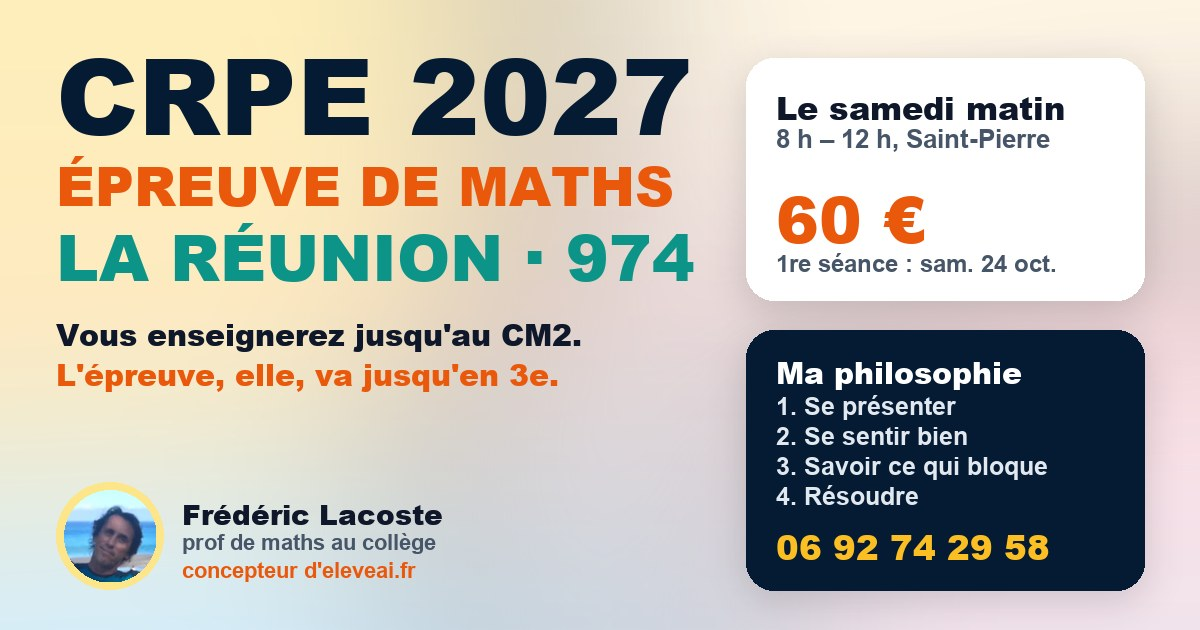
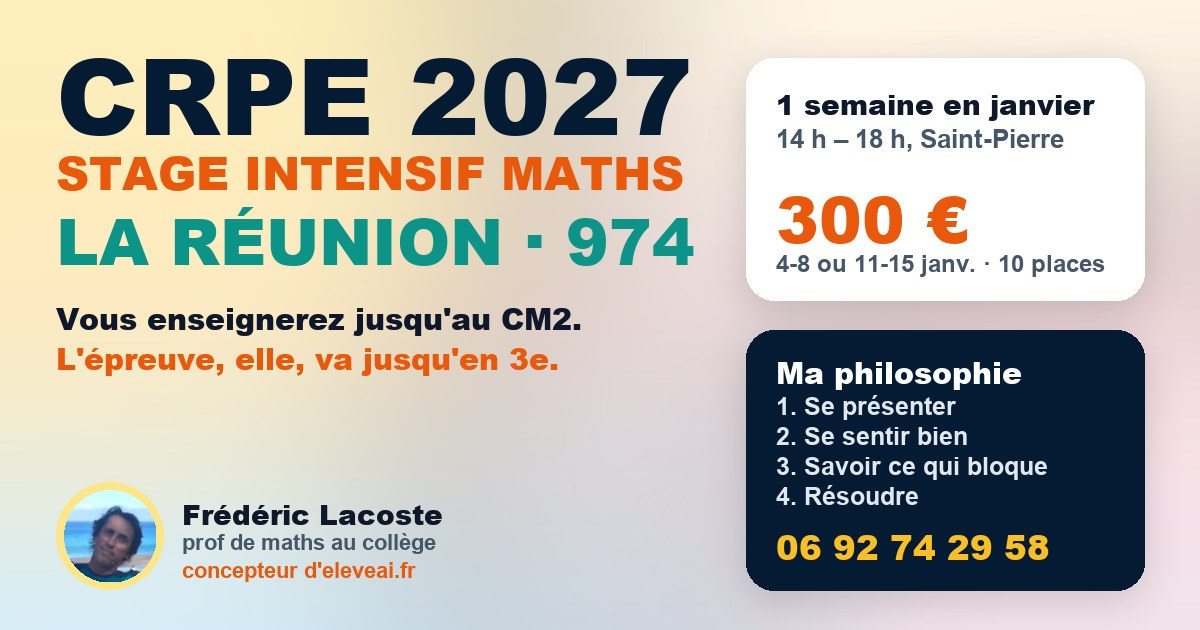
Pub CRPE refaite pour le stage de janvier : carrousel, post, story et image de partage (« Stage intensif maths », 1 semaine en janvier 14 h-18 h, 300 €, 4-8 ou 11-15 janvier, 10 places, « Bonne résolution 2027 », 06 92 74 29 58) — Frédéric, 25/11 : « fait le pub instagram ». La page /formation-crpe 

diff --git a/app/formation-crpe/page.tsx b/app/formation-crpe/page.tsx
@@ -253,8 +253,8 @@ export const metadata: Metadata = {
   description: DESCRIPTION,
   alternates: { canonical: `${SITE_URL}/formation-crpe` },
   // ⚠ Next ne fusionne pas `openGraph` avec celui du layout : l'image est
-  // déclarée ici. L'ancienne image de partage (pub des samedis à 60 €) ne
-  // correspond plus à l'offre : image générique en attendant une nouvelle pub.
+  // déclarée ici. Elle est régénérée pour le stage de janvier (25/11) par
+  // scripts/pub-crpe-instagram.py, avec le post et la story.
   openGraph: {
     title: `Les maths du CRPE en ${NB_JOURS} jours, en janvier, à ${LIEU.ville}`,
     description: DESCRIPTION,
@@ -262,13 +262,20 @@ export const metadata: Metadata = {
     type: "website",
     siteName: "EleveAI",
     locale: "fr_FR",
-    images: [{ url: "/preview.jpg" }],
+    images: [
+      {
+        url: "/images/formation-crpe-partage-1200x630.jpg",
+        width: 1200,
+        height: 630,
+        alt: "Stage intensif de maths du CRPE, une semaine en janvier 2027, Saint-Pierre, La Réunion",
+      },
+    ],
   },
   twitter: {
     card: "summary_large_image",
     title: `Les maths du CRPE en ${NB_JOURS} jours, en janvier, à ${LIEU.ville}`,
     description: DESCRIPTION,
-    images: ["/preview.jpg"],
+    images: ["/images/formation-crpe-partage-1200x630.jpg"],
   },
 };
 

diff --git a/scripts/pub-crpe-instagram.py b/scripts/pub-crpe-instagram.py
@@ -8,6 +8,12 @@
 # ⛔ AUCUN CHIFFRE INVENTÉ (taux d'admis, avis…) : la première promotion n'a
 # pas fini. Prix, lieu, horaires : ceux de la page, rien d'autre.
 #
+# ⭐ 25/11/2026 — LE STAGE DE JANVIER remplace les samedis (aucun inscrit) :
+# une semaine, lundi → vendredi, 14 h – 18 h (heure de La Réunion), deux
+# sessions (4-8 et 11-15 janvier 2027), 300 € la semaine en salle, 250 € à
+# distance, 10 places par session, sur test d'entrée. « Bonne résolution 2027 »
+# est son accroche. Tout vient de app/formation-crpe/page.tsx.
+#
 # Usage : python scripts/pub-crpe-instagram.py
 #   → pub/instagram/crpe/carrousel-{1,2,3}-…-1080x1350.png (à publier en premier)
 #   → pub/instagram/crpe/post-1080x1350.png
@@ -132,7 +138,7 @@ def composer(h):
         return y + (b[3] - b[1])
 
     y = ligne("CRPE 2027", NAVY, y) + k(26)
-    y = ligne("ÉPREUVE DE MATHS", ORANGE, y) + k(22)
+    y = ligne("STAGE INTENSIF MATHS", ORANGE, y) + k(22)
     y = ligne("LA RÉUNION · 974", (13, 148, 136), y) + k(30)
 
     # ── L'accroche, désormais en second
@@ -167,12 +173,12 @@ def composer(h):
     carte(im, (marge, y, W - marge, y + haut_carte))
     d = ImageDraw.Draw(im)
     cx = marge + 44
-    d.text((cx, y + k(36)), "Le samedi matin, 8 h – 12 h", font=NOIR(k(48)), fill=ENCRE)
-    d.text((cx, y + k(104)), "Hôtel Terre-Sainte, Saint-Pierre", font=GRAS(k(36)), fill=GRIS)
-    d.text((cx, y + k(170)), "60 €", font=NOIR(k(84)), fill=ORANGE)
-    px = cx + largeur(d, "60 € ", NOIR(k(84)))
-    d.text((px, y + k(182)), "la matinée, sans forfait", font=GRAS(k(34)), fill=GRIS)
-    d.text((px, y + k(228)), "1re séance : samedi 24 octobre", font=GRAS(k(30)), fill=GRIS)
+    d.text((cx, y + k(36)), "1 semaine en janvier, 14 h – 18 h", font=NOIR(k(46)), fill=ENCRE)
+    d.text((cx, y + k(104)), "Hôtel Terre-Sainte, Saint-Pierre · ou à distance", font=GRAS(k(32)), fill=GRIS)
+    d.text((cx, y + k(170)), "300 €", font=NOIR(k(84)), fill=ORANGE)
+    px = cx + largeur(d, "300 € ", NOIR(k(84)))
+    d.text((px, y + k(182)), "la semaine · 250 € à distance", font=GRAS(k(32)), fill=GRIS)
+    d.text((px, y + k(228)), "4-8 ou 11-15 janvier · 10 places", font=GRAS(k(30)), fill=GRIS)
     y += haut_carte + (40 if story else 26)
 
     # ── L'action : le seul bloc sombre
@@ -242,7 +248,7 @@ def composer_partage():
 
     y = 58
     y = ligne("CRPE 2027", NAVY, y, gauche) + 20
-    y = ligne("ÉPREUVE DE MATHS", ORANGE, y, gauche) + 16
+    y = ligne("STAGE INTENSIF MATHS", ORANGE, y, gauche) + 16
     y = ligne("LA RÉUNION · 974", (13, 148, 136), y, gauche) + 30
     d.text((marge, y), "Vous enseignerez jusqu'au CM2.", font=NOIR(30), fill=ENCRE)
     d.text((marge, y + 40), "L'épreuve, elle, va jusqu'en 3e.", font=NOIR(30), fill=ORANGE)
@@ -259,10 +265,10 @@ def composer_partage():
     carte(im, (x0, 58, x1, 300), rayon=28)
     d = ImageDraw.Draw(im)
     cx = x0 + 30
-    d.text((cx, 84), "Le samedi matin", font=NOIR(32), fill=ENCRE)
-    d.text((cx, 124), "8 h – 12 h, Saint-Pierre", font=GRAS(26), fill=GRIS)
-    d.text((cx, 172), "60 €", font=NOIR(64), fill=ORANGE)
-    d.text((cx, 250), "1re séance : sam. 24 oct.", font=GRAS(24), fill=GRIS)
+    d.text((cx, 84), "1 semaine en janvier", font=NOIR(28), fill=ENCRE)
+    d.text((cx, 124), "14 h – 18 h, Saint-Pierre", font=GRAS(26), fill=GRIS)
+    d.text((cx, 172), "300 €", font=NOIR(64), fill=ORANGE)
+    d.text((cx, 250), "4-8 ou 11-15 janv. · 10 places", font=GRAS(24), fill=GRIS)
     carte(im, (x0, 330, x1, LH - 40), rayon=28, fond_c=NAVY + (255,))
     d = ImageDraw.Draw(im)
     # Sa philosophie, comme sur le post (15/10) — plus de « Test gratuit » ici.
@@ -334,7 +340,7 @@ def carrousel_1():
     cible = int(W * 0.9)
     y = 110
     y = titre_large(d, "CRPE 2027", NAVY, y, cible) + 28
-    y = titre_large(d, "ÉPREUVE DE MATHS", ORANGE, y, cible) + 24
+    y = titre_large(d, "STAGE INTENSIF MATHS", ORANGE, y, cible) + 24
     y = titre_large(d, "LA RÉUNION · 974", (13, 148, 136), y, cible) + 110
     d.text((72, y), "Vous enseignerez", font=NOIR(66), fill=ENCRE)
     d.text((72, y + 78), "jusqu'au CM2.", font=NOIR(66), fill=ENCRE)
@@ -382,25 +388,25 @@ def carrousel_3():
     """Le pratique : la date, le lieu, le prix, le téléphone."""
     im = fond(H_CAR).convert("RGBA")
     d = ImageDraw.Draw(im)
-    d.text((72, 96), "1re séance", font=NOIR(58), fill=ORANGE)
-    y = titre_large(d, "SAMEDI 24 OCTOBRE", NAVY, 196, int(W * 0.9)) + 60
+    d.text((72, 96), "Bonne résolution 2027", font=NOIR(58), fill=ORANGE)
+    y = titre_large(d, "UNE SEMAINE EN JANVIER", NAVY, 196, int(W * 0.9)) + 60
     carte(im, (72, y, W - 72, y + 430), rayon=36)
     d = ImageDraw.Draw(im)
     cx = 116
-    d.text((cx, y + 40), "8 h – 12 h, le samedi matin", font=NOIR(46), fill=ENCRE)
+    d.text((cx, y + 40), "Lundi → vendredi, 14 h – 18 h", font=NOIR(46), fill=ENCRE)
     d.text((cx, y + 104), "Hôtel Terre-Sainte, Saint-Pierre", font=GRAS(38), fill=GRIS)
-    d.text((cx, y + 180), "60 €", font=NOIR(110), fill=ORANGE)
-    px = cx + largeur(d, "60 € ", NOIR(110))
-    d.text((px, y + 196), "la matinée, café compris", font=GRAS(34), fill=GRIS)
-    d.text((px, y + 244), "sans forfait : vous payez", font=GRAS(34), fill=GRIS)
-    d.text((px, y + 288), "les samedis où vous venez", font=GRAS(34), fill=GRIS)
-    d.text((cx, y + 362), "Groupe de 5 à 15 · 14 samedis jusqu'à fin mars", font=GRAS(30), fill=(13, 148, 136))
+    d.text((cx, y + 180), "300 €", font=NOIR(110), fill=ORANGE)
+    px = cx + largeur(d, "300 € ", NOIR(110))
+    d.text((px, y + 196), "la semaine en salle", font=GRAS(34), fill=GRIS)
+    d.text((px, y + 244), "250 € à distance,", font=GRAS(34), fill=GRIS)
+    d.text((px, y + 288), "en direct (11 h – 15 h Paris)", font=GRAS(34), fill=GRIS)
+    d.text((cx, y + 362), "4-8 ou 11-15 janvier · 10 places par session", font=GRAS(30), fill=(13, 148, 136))
     y += 430 + 40
     carte(im, (72, y, W - 72, y + 300), rayon=36, fond_c=NAVY + (255,))
     d = ImageDraw.Draw(im)
     d.text((cx, y + 36), "Réservez votre place", font=NOIR(44), fill=BLANC)
     d.text((cx, y + 100), "06 92 74 29 58", font=NOIR(76), fill=AMBRE)
-    d.text((cx, y + 210), "Test gratuit (15 min) : lien en bio", font=GRAS(32), fill=(203, 213, 225))
+    d.text((cx, y + 210), "Test d'entrée (15 min) : lien en bio", font=GRAS(32), fill=(203, 213, 225))
     tm = Image.open(TI_MARGO).convert("RGBA")
     tm = tm.resize((int(tm.width * 160 / tm.height), 160), Image.LANCZOS)
     im.paste(tm, (60, H_CAR - 60 - 160), tm)
